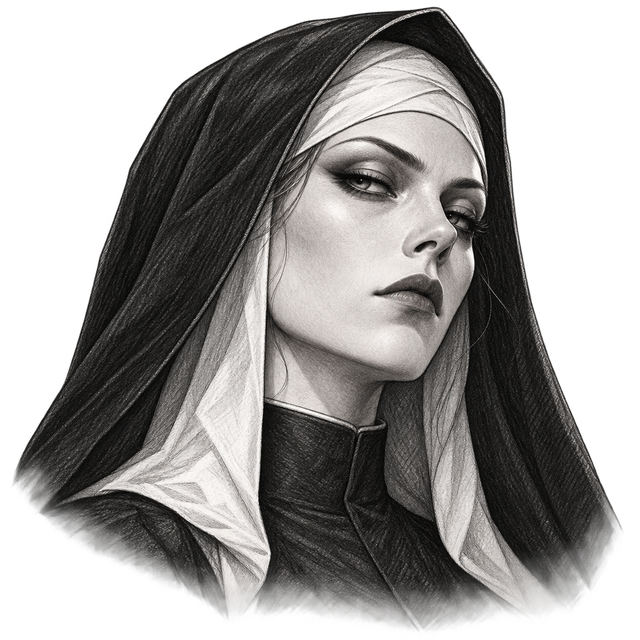
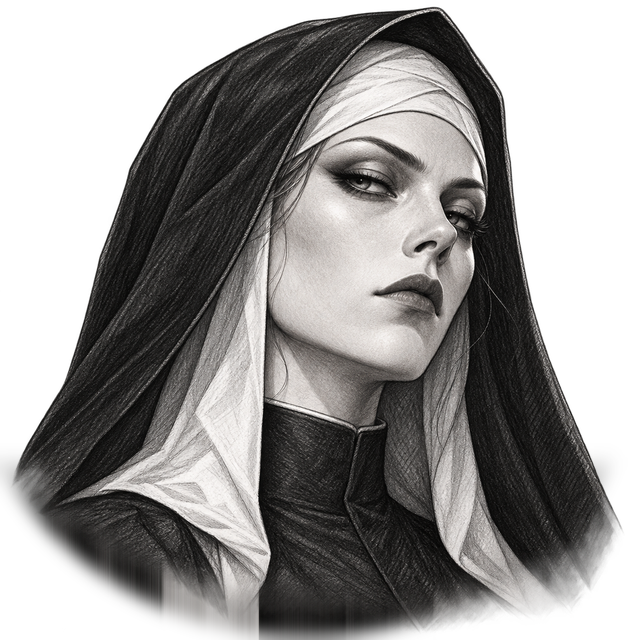
ui: close the hem on the two portraits that fade out inside the oval
Both hooded portraits end in an alpha ramp rather than an edge: their bottom sixth fades
to nothing. On leader_male_hooded the opaque pixels per row collapse from 309 to 2
between rows 543 and 575. On a white page that is invisible, which is presumably where
they were judged -- but on a board the oval behind the head is the seat's colour, so the
fade does not end in white, it ends in ash, and what you see is that ground climbing up
into the robe from the bottom of the oval.

The obvious repair is to move the image down so the ramp falls outside the oval, and it
is the one thing this repository does not do: the placement is registration shared by
all five portraits. So the fix is to the asset, and fix_portrait_hem.py reads the clip
ellipse and the image placement out of the template rather than keeping a second copy of
numbers that belong to the board.

The fade still carries colour; only the alpha was ramped away. So the robe is not
invented, only continued: each column takes the median of its last forty opaque rows,
that colour is carried down and darkened the way a hem in shadow would be, and the
original composites back on top so every fold it still has survives. A portrait whose
hem is already solid comes out byte-identical, and a second run is a no-op.

Choosing where to measure mattered more than choosing how to fill. Measured over the
whole lower oval, leader_male_shaven also looks broken -- 1,273 thin pixels, all of them
[…]

diff --git a/ui/render/fix_portrait_hem.py b/ui/render/fix_portrait_hem.py
@@ -1,0 +1,201 @@
+"""Close the hem of a portrait that fades out inside the board's oval.
+
+    python3 ui/render/fix_portrait_hem.py --check      # report, write nothing
+    python3 ui/render/fix_portrait_hem.py              # fix every portrait that needs it
+
+WHAT GOES WRONG
+
+Two of the portraits -- both hooded ones -- end in an alpha ramp rather than an edge: their bottom
+sixth fades to nothing. On a white page that is invisible, which is presumably where they were
+judged. On a player board the oval behind the head is the SEAT'S COLOUR, so the fade does not end in
+white, it ends in sage, or pewter, or ash. What you see is a pale crescent creeping up into the
+robe from the bottom of the oval, and it reads as a rendering fault rather than as artwork.
+
+    leader_male_hooded     opaque pixels per row collapse from 309 to 2 between rows 543 and 575
+    leader_female_hooded   the same, from 333 to 22
+
+WHY THE FIX IS TO THE ASSET AND NOT TO THE BOARD
+
+The obvious repair -- move the image down, or scale it up, so the ramp falls outside the oval -- is
+the one thing this repository does not do: the portrait's placement is registration, shared by every
+portrait, and nudging it for one file breaks the other four. So the board's numbers are read, not
+written. This fills the hem INSIDE the portrait, and any portrait that already has a solid hem comes
+out byte-identical.
+
+HOW
+
+The fade still carries colour; only the alpha is ramped away. So the robe does not have to be
+invented, only continued: each column takes the median of its last forty opaque rows, that colour is
+carried down, darkened as it descends the way a hem in shadow would be, and the original portrait is
+composited back on top so every fold and highlight it still has survives. The fill's own alpha ramps
+in from zero well above the damage, so nothing in the picture gains an edge that was not there.
+
+The fill is shaped to the oval, grown past it, because the board clips to the oval anyway: a fill
+that stopped exactly on the boundary would be eroded by its own feathering and leave the rim
+translucent, which is the original bug in miniature.
+"""
+from __future__ import annotations
+
+import argparse
+import pathlib
+import re
+import sys
+
+import numpy as np
+from PIL import Image, ImageFilter
+
+HERE = pathlib.Path(__file__).resolve().parent
+ASSETS = HERE.parent / "assets-gothic"
+TEMPLATE = ASSETS / "template" / "player_board_template.svg"
+PORTRAITS = ASSETS / "portraits"
+
+# Where the fill starts to appear and where it is solid, as a fraction of the portrait's height.
+# Both sit above the earliest damage in either file and below anything either of them draws, so one
+# pair of numbers serves every portrait rather than becoming a table keyed by filename.
+RAMP_TOP, SOLID_FROM = 0.711, 0.820
+DARKEN = 0.28          # how much the carried-down robe loses by the bottom of the frame
+GROW = 26.0            # board px the fill extends past the oval, so its feather clears the rim
+FEATHER = 8            # px of blur on the fill's alpha
+
+
+def board_geometry():
+    """The portrait's placement and clip, read off the template.
+
+    Read rather than repeated: these four numbers are registration shared by every portrait, and a
+    second copy of them here is a second thing to update when the board moves.
+    """
+    svg = TEMPLATE.read_text(encoding="utf-8")
+    clip = re.search(r'<clipPath id="portraitClip"><ellipse\s+cx="([\d.]+)"\s+cy="([\d.]+)"'
+                     r'\s+rx="([\d.]+)"\s+ry="([\d.]+)"', svg)
+    image = re.search(r'<image data-asset-role="portrait"[^>]*?\sx="([\d.]+)"\s+y="([\d.]+)"'
+                      r'\s+width="([\d.]+)"', svg)
+    if not clip or not image:
+        raise SystemExit(
+            "could not find the portrait's clip ellipse and <image> placement in %s.\n"
+            "This script reads the board's own numbers rather than keeping a copy; if the template "
+            "was reshaped, update the two patterns here to match." % TEMPLATE)
+    cx, cy, rx, ry = (float(v) for v in clip.groups())
+    x, y, w = (float(v) for v in image.groups())
+    return dict(cx=cx, cy=cy, rx=rx, ry=ry, x=x, y=y, w=w)
+
+
+def oval_alpha(size, geo, grow=0.0):
+    """The clip oval, in the portrait's own pixels."""
+    scale = size / geo["w"]                       # source px per board px
+    ys, xs = np.mgrid[0:size, 0:size]
+    bx = geo["x"] + xs / scale
+    by = geo["y"] + ys / scale
+    inside = ((bx - geo["cx"]) / (geo["rx"] + grow)) ** 2 \
+        + ((by - geo["cy"]) / (geo["ry"] + grow)) ** 2
+    return inside <= 1.0
+
+
+def damage(alpha, oval, size):
+    """Thin pixels in the BOTTOM BAND of the oval, which is what a fade looks like and nothing else.
+
+    Getting this band right is the difference between a check and a nuisance. Measuring the whole
+    lower oval also catches portraits that are perfectly solid but simply do not reach the oval's
+    left and right rim -- leader_male_shaven has 1,214 such pixels, all of them behind the gold ring
+    and none of them a fault. Measured in the bottom band instead, the two portraits that fade score
+    38%% and 52%% and the three that do not score zero, with nothing in between to draw a line
+    through.
+
+    The TOP of the oval is never measured. That is the ground behind the head, it is meant to show
+    the seat's colour, and counting it would report every portrait as broken.
+    """
+    rows = np.mgrid[0:size, 0:size][0]
+    band = oval & (rows >= int(size * SOLID_FROM))
+    lower = oval & (rows >= int(size * RAMP_TOP))
+    return (int((band & (alpha < 250)).sum()),
+            int(alpha[band].min()) if band.any() else 255,
+            int((lower & (alpha < 250)).sum()))
+
+
+def fill_hem(path: pathlib.Path, geo) -> tuple[np.ndarray, int, int]:
+    a = np.array(Image.open(path).convert("RGBA")).astype(float)
+    size = a.shape[0]
+    if a.shape[0] != a.shape[1]:
+        raise SystemExit("%s is %dx%d; the portraits are square." % (path.name, *a.shape[:2]))
+    rgb, alpha = a[:, :, :3], a[:, :, 3]
+    oval = oval_alpha(size, geo)
+    before = damage(alpha, oval, size)
+
+    solid_row = int(size * SOLID_FROM)
+    opaque = alpha >= 250
+    base = np.zeros((size, 3))
+    have = np.zeros(size, bool)
+    for x in range(size):
+        rows = np.where(opaque[:solid_row, x])[0]
+        if len(rows) >= 8:
+            base[x] = np.median(rgb[rows[-40:], x], axis=0)
+            have[x] = True
+    known = np.where(have)[0]
+    if not len(known):
+        raise SystemExit("%s has no opaque rows to continue; it is not a portrait this can fix."
+                         % path.name)
+    for x in np.where(~have)[0]:                  # a column with nothing borrows its nearest neighbour
+        base[x] = base[known[np.argmin(np.abs(known - x))]]
+
+    ramp_row = int(size * RAMP_TOP)
+    depth = np.clip((np.arange(size) - ramp_row) / max(size - ramp_row, 1), 0, 1)[:, None, None]
+    backdrop = np.repeat(base[None, :, :], size, axis=0) * (1 - DARKEN * depth)
+
+    ramp = np.clip((np.arange(size) - ramp_row) / max(solid_row - ramp_row, 1), 0, 1)[:, None] * 255
+    back_a = np.repeat(ramp, size, axis=1) * oval_alpha(size, geo, grow=GROW)
+    back_a = np.array(Image.fromarray(back_a.astype(np.uint8))
+                      .filter(ImageFilter.GaussianBlur(FEATHER)), float)
+    # The blur reads zeros from beyond the bottom of the image, so near the oval's lowest point it
+    # pulls the fill back below opaque -- which left a rim the fix had not fixed, and made a second
+    # run find work to do. Inside the band the fill is asserted rather than feathered; the feather
+    # is only there to hide the fill's upper edge, and there is no upper edge down here.
+    band = oval_alpha(size, geo) & (np.mgrid[0:size, 0:size][0] >= solid_row)
+    back_a = np.maximum(back_a, band * 255.0)
+
+    # Source-over: the portrait as it is, onto the continued robe.
+    ta = alpha[:, :, None] / 255
+    ba = back_a[:, :, None] / 255
+    out_a = ta + ba * (1 - ta)
+    out_rgb = np.where(out_a > 0, (rgb * ta + backdrop * ba * (1 - ta)) / np.maximum(out_a, 1e-6), 0)
+    out = np.dstack([out_rgb, out_a * 255]).clip(0, 255).astype(np.uint8)
+    after = damage(out[:, :, 3].astype(float), oval, size)
+    return out, before, after
+
+
+def main():
+    ap = argparse.ArgumentParser(description=__doc__.splitlines()[0])
+    ap.add_argument("--check", action="store_true", help="report and write nothing")
+    ap.add_argument("portraits", nargs="*", help="default: every portrait in the assets tree")
+    args = ap.parse_args()
+
+    geo = board_geometry()
+    paths = [pathlib.Path(p) for p in args.portraits] or sorted(PORTRAITS.glob("*.png"))
+    if not paths:
+        raise SystemExit("no portraits found in %s" % PORTRAITS)
+
+    print("oval cx %(cx)s cy %(cy)s rx %(rx)s ry %(ry)s, image at x %(x)s y %(y)s w %(w)s"
+          % geo)
+    changed = 0
+    for path in paths:
+        out, before, after = fill_hem(path, geo)
+        band_before, min_before, lower_before = before
+        band_after, min_after, lower_after = after
+        if band_before == 0:
+            print("  %-32s hem solid (%d thin px higher up, all behind the ring)"
+                  % (path.name, lower_before))
+            continue
+        changed += 1
+        print("  %-32s hem %5d thin px (min alpha %3d) -> %4d (min alpha %3d);"
+              "  lower oval %5d -> %5d%s"
+              % (path.name, band_before, min_before, band_after, min_after,
+                 lower_before, lower_after, "" if args.check else "   written"))
+        if not args.check:
+            Image.fromarray(out, "RGBA").save(path)
+    if args.check:
+        print("\n%d portrait(s) would be changed. Run without --check to write them." % changed)
+        return 1 if changed else 0
+    print("\n%d portrait(s) written." % changed)
+    return 0
+
+
+if __name__ == "__main__":
+    sys.exit(main())
